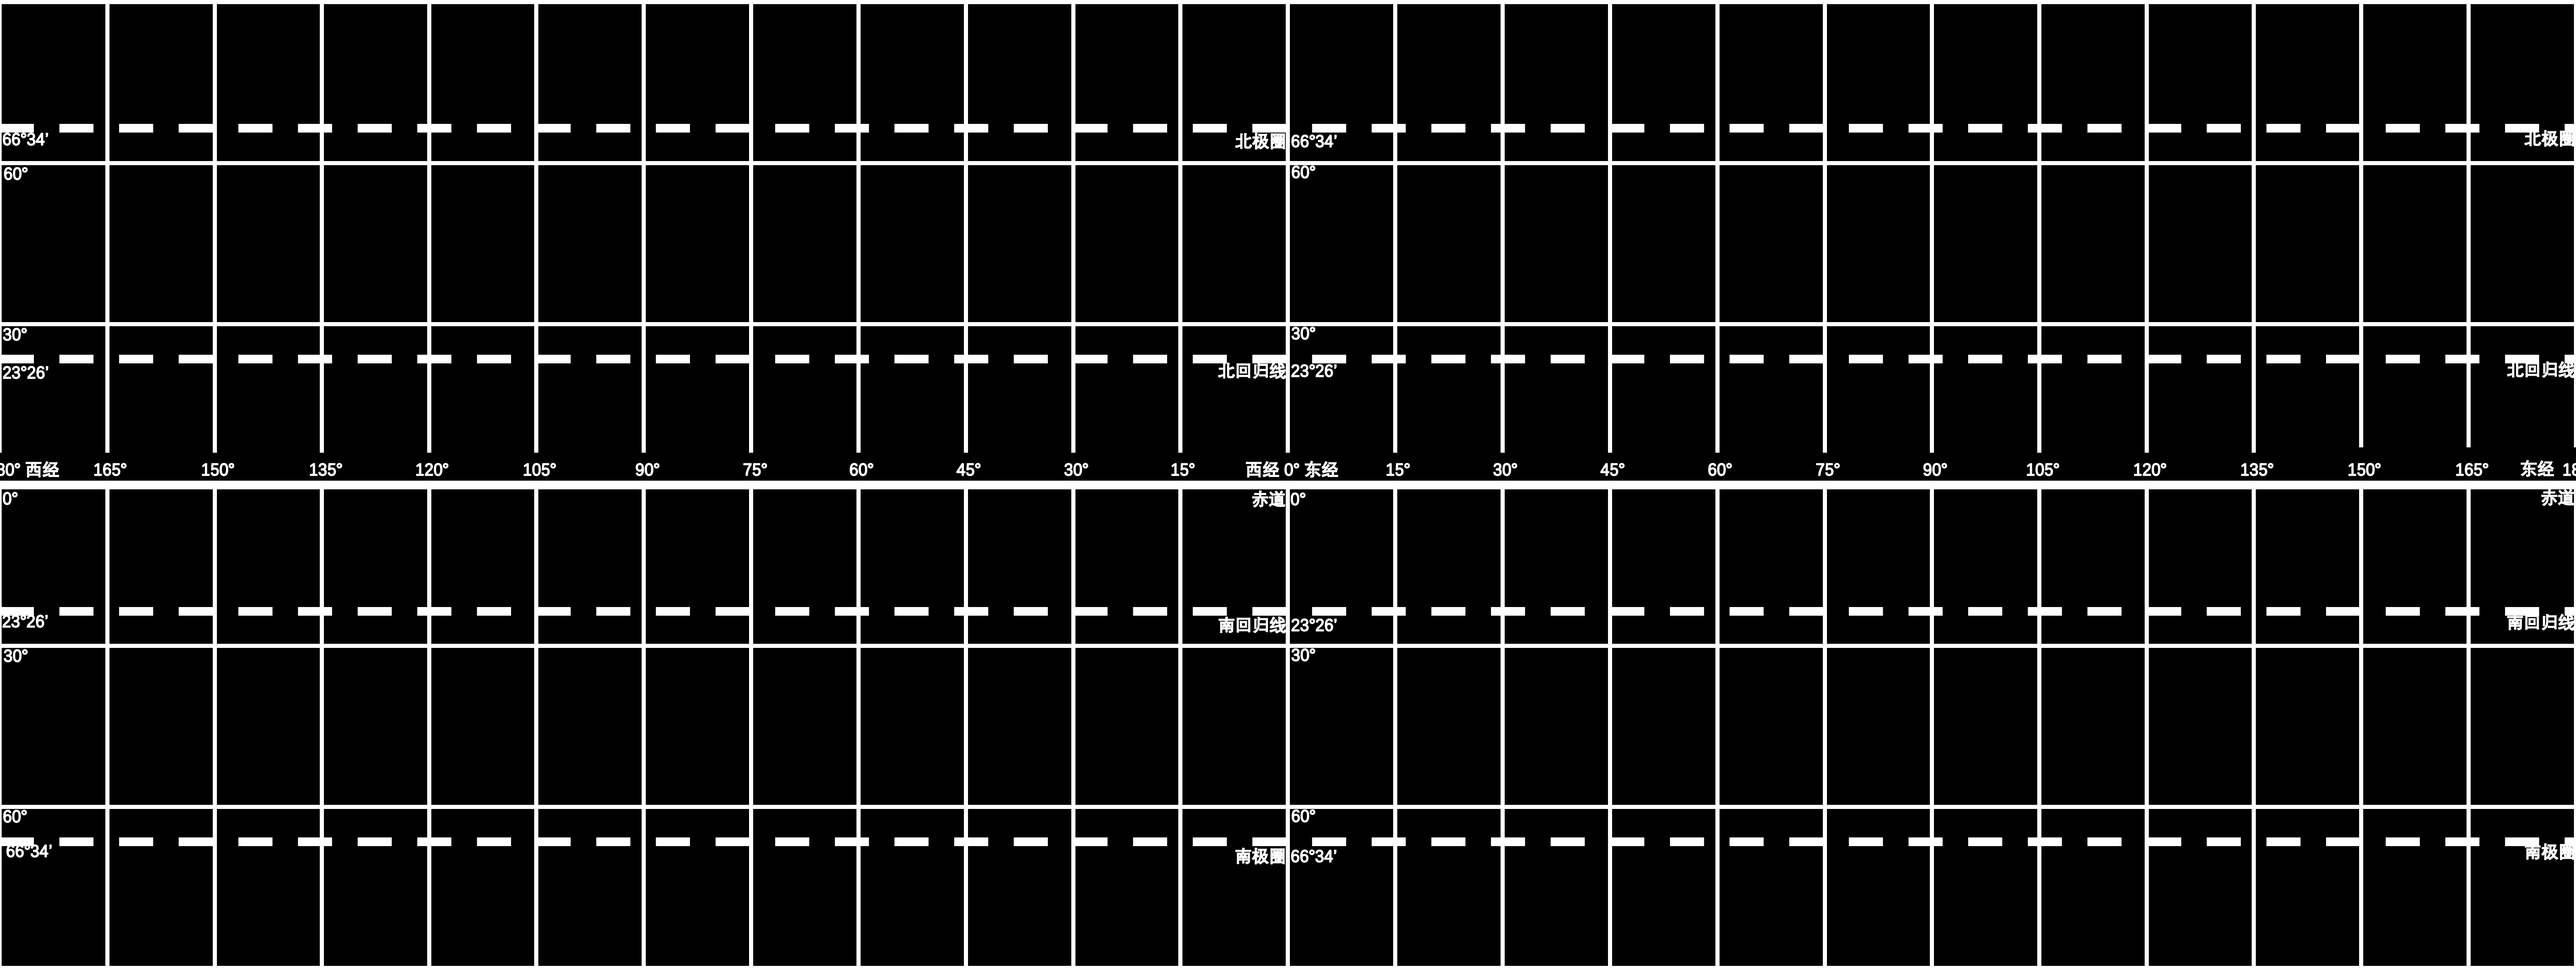
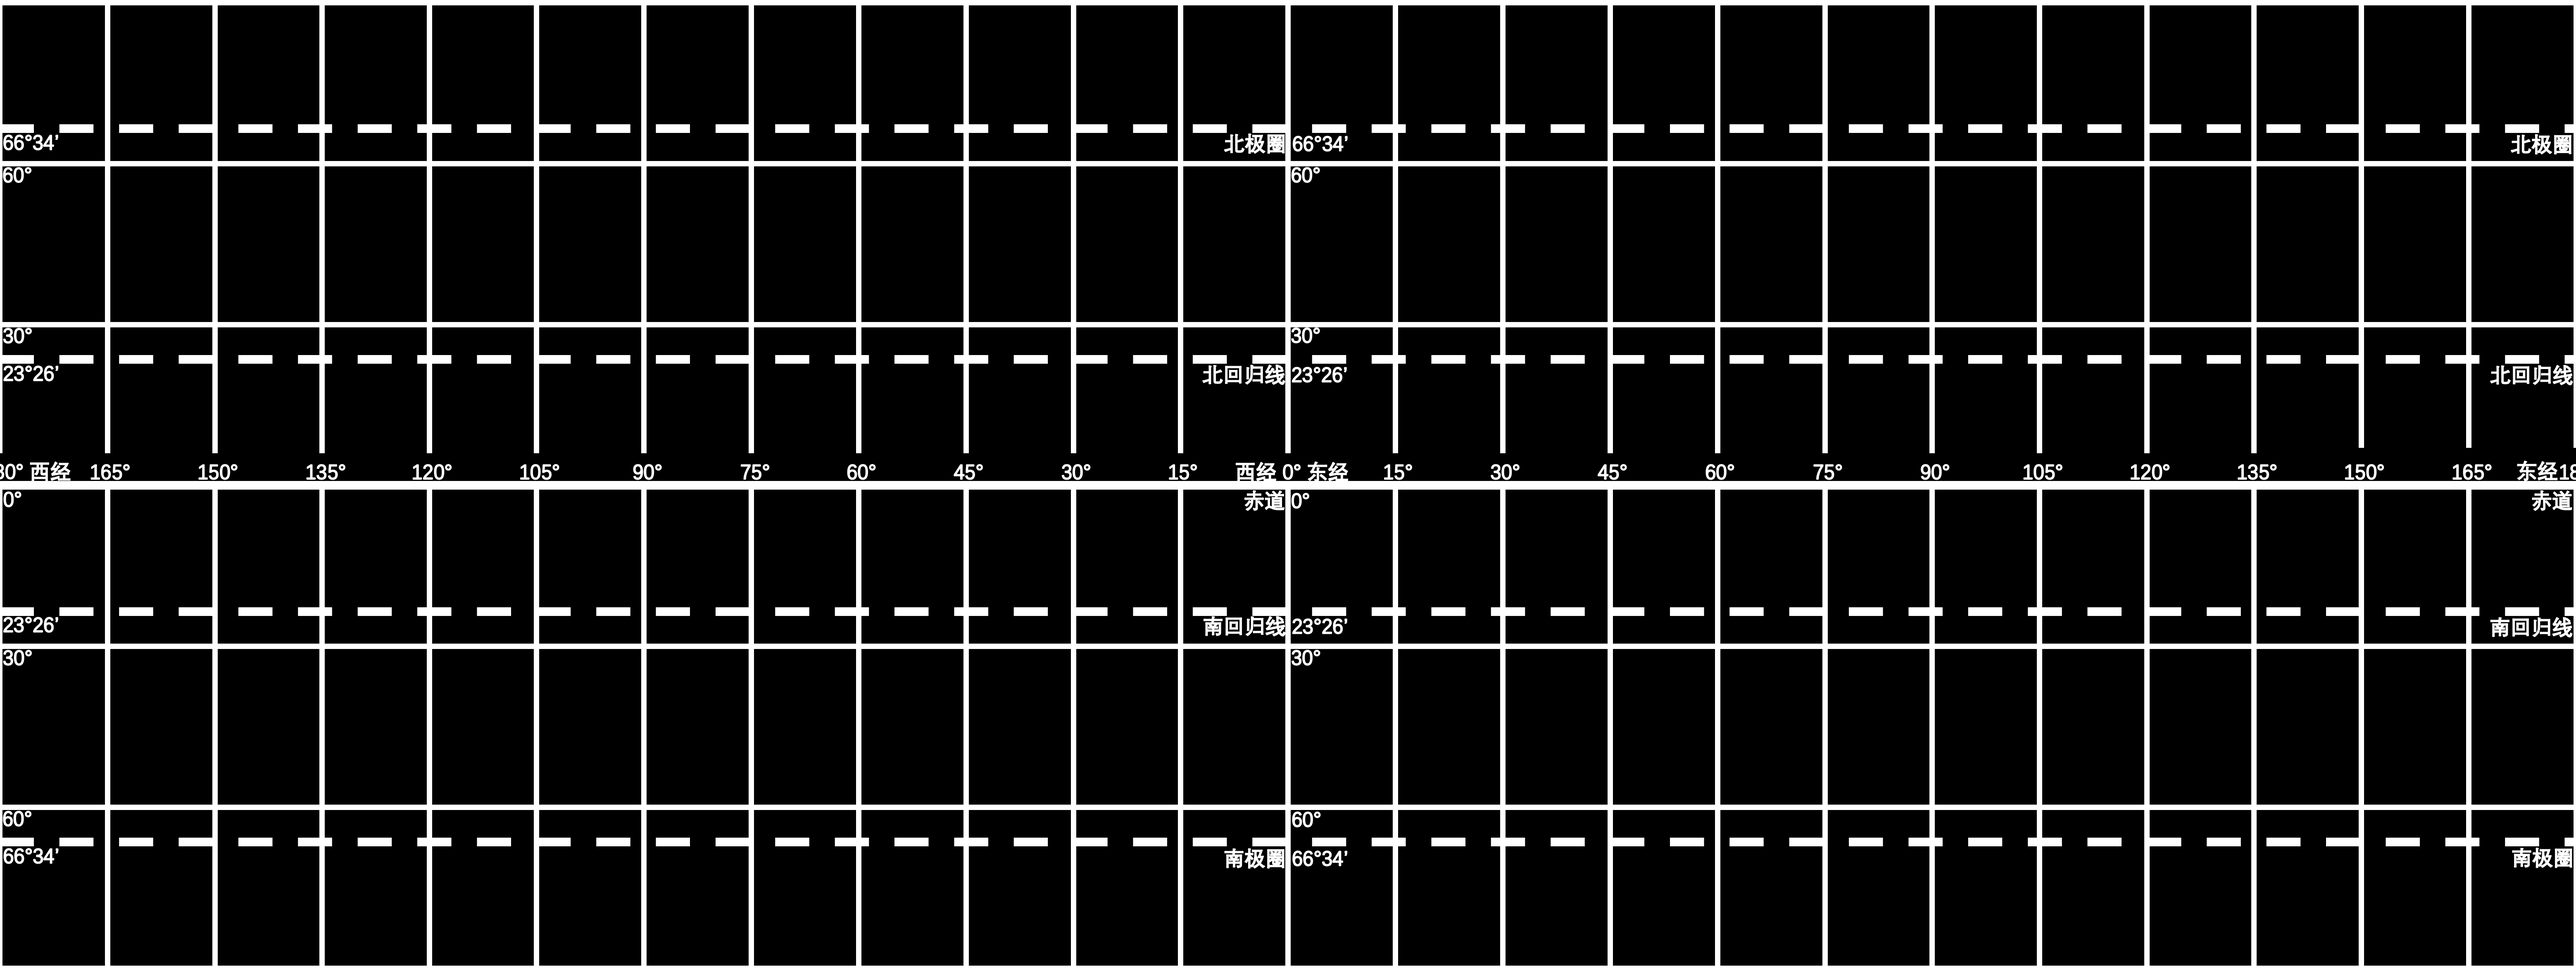
change the textures of graticules

diff --git a/scripts/solar system.js b/scripts/solar system.js
@@ -160,15 +160,14 @@ function init() {
   subsolar_point.mesh = new THREE.Mesh(subsolar_point.geometry, subsolar_point.material);
 
   graticules = {
-    geometry: new THREE.SphereGeometry(0.407, 128, 128),
+    geometry: new THREE.SphereGeometry(0.41, 128, 128),
     texture: new THREE.TextureLoader().load("./src/earth_graticules.png"),
     alpha: new THREE.TextureLoader().load("./src/earth_graticules_alpha.png")
   };
   graticules.material = new THREE.MeshBasicMaterial({ 
     map: graticules.texture, 
     alphaMap: graticules.alpha,
-    transparent: true,
-    emissiveColor: 0x444444
+    transparent: true
   });
   graticules.mesh = new THREE.Mesh(graticules.geometry, graticules.material);
 }
